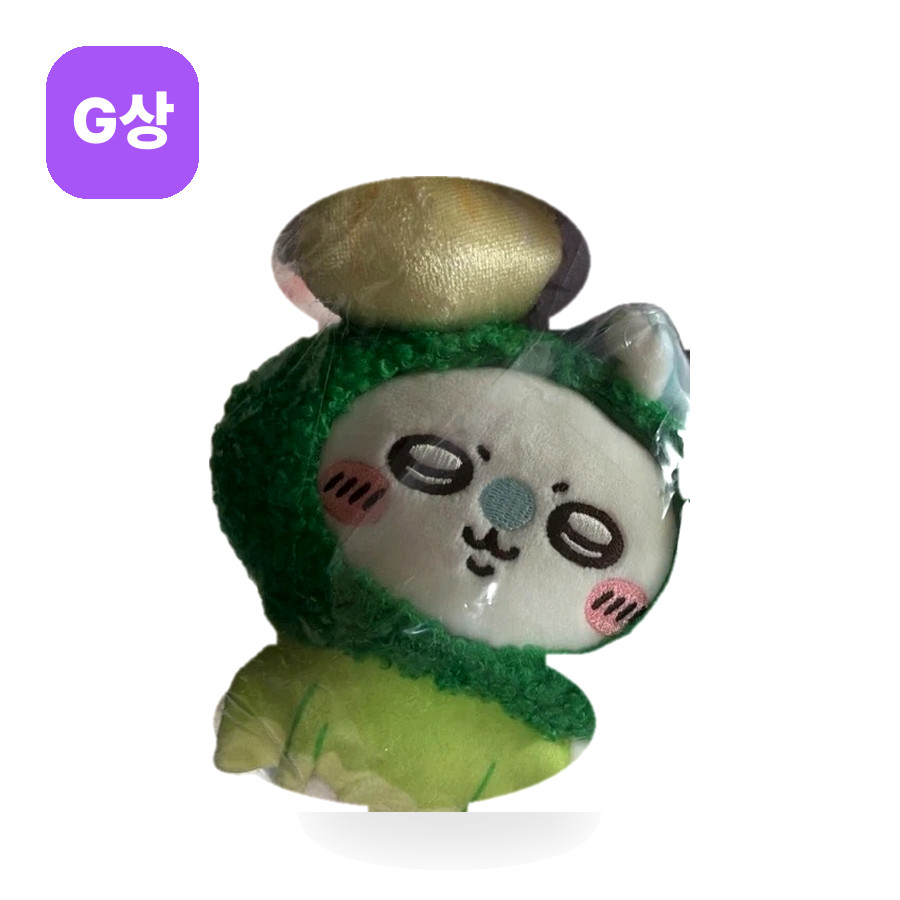
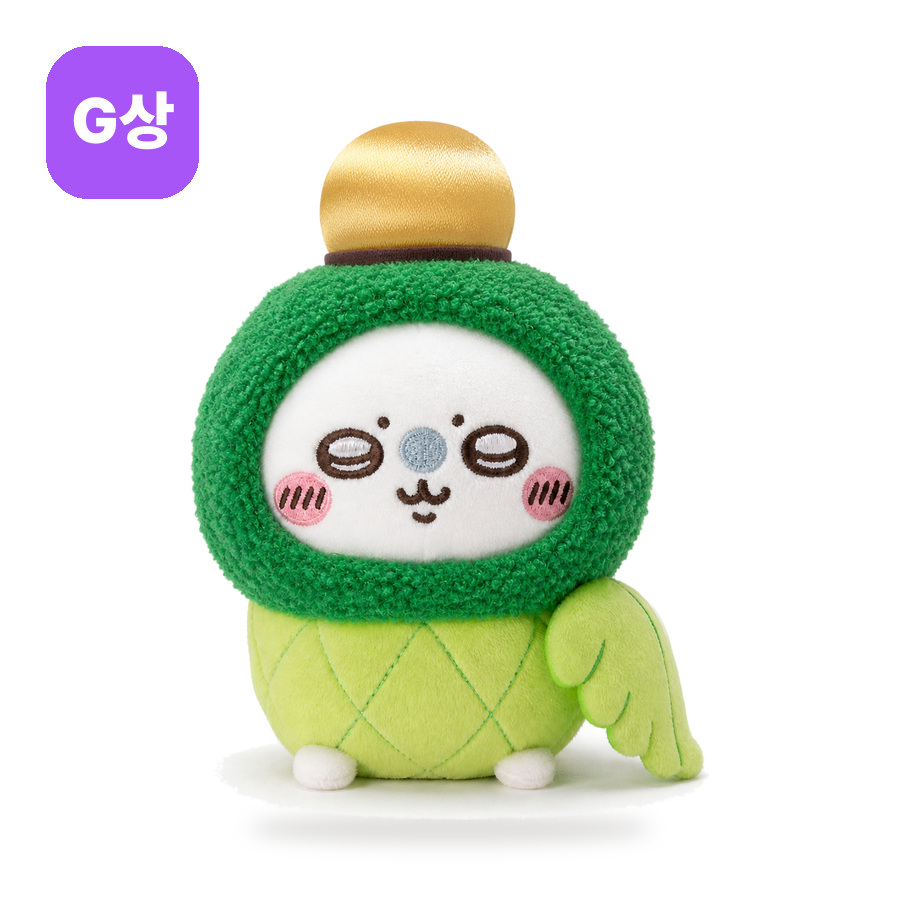
v4.4.30 갸루 G상 미니소 과일 모몽가(파인애플) 스튜디오 화이트 컷 복원 — 비닐 반사·그림자 제거한 실물 기반 순백 카드로 교체, 갸루 라인업 재생성, COVER_VER 4.4.30

diff --git a/index.html b/index.html
@@ -22,7 +22,7 @@
 <link rel="stylesheet" href="https://fonts.googleapis.com/css2?family=Black+Han+Sans&family=Do+Hyeon&display=swap">
 <link rel="stylesheet" href="https://cdn.jsdelivr.net/gh/orioncactus/pretendard@v1.3.9/dist/web/variable/pretendardvariable-dynamic-subset.min.css">
 <link rel="preconnect" href="https://t1.kakaocdn.net" crossorigin>
-<link rel="stylesheet" href="assets/styles.css?v=4.4.29">
+<link rel="stylesheet" href="assets/styles.css?v=4.4.30">
 <script type="application/ld+json">
 {"@context":"https://schema.org","@type":"WebSite","name":"쿠지킹","alternateName":"KUJIKING","url":"https://kujiking.co.kr/"}
 </script>
@@ -916,7 +916,7 @@
       <button type="button" data-action="open-policy" data-policy="probability">확률 공시</button>
     </nav>
     <p class="footer-note">본 상품은 무작위 추첨 상품입니다. 교환 코드 사용(개봉) 후에는 청약철회가 제한됩니다. <b>만 19세 이상 성인 전용 서비스</b>로, 미성년자는 이용할 수 없습니다.</p>
-    <p class="footer-copy">© 2026 쿠지킹. All rights reserved. · <span class="proto-tag" id="protoTag">v4.4.29</span></p>
+    <p class="footer-copy">© 2026 쿠지킹. All rights reserved. · <span class="proto-tag" id="protoTag">v4.4.30</span></p>
   </div>
 </footer>
 
@@ -959,6 +959,6 @@
 </div>
 
 <script src="assets/config.js?v=3.0.2"></script>
-<script src="assets/app.js?v=4.4.29" defer></script>
+<script src="assets/app.js?v=4.4.30" defer></script>
 </body>
 </html>

diff --git a/assets/app.js b/assets/app.js
@@ -128,7 +128,7 @@
   }
   var h = escapeHtml;
   /* 실물 커버 등 상품 이미지 캐시 갱신용 버전 (커버 교체 시 올린다) */
-  var COVER_VER = '4.4.29';
+  var COVER_VER = '4.4.30';
   /* 판마다 지정한 스토어 링크가 없을 때 쓰는 기본 스마트스토어 상품 주소 */
   var DEFAULT_STORE_URL = STORE_PRODUCT_URL;
   /* P상(굿즈 포인트) 카드 기본 이미지 — 판에 P상 이미지가 없으면 이 이미지를 쓴다 */
